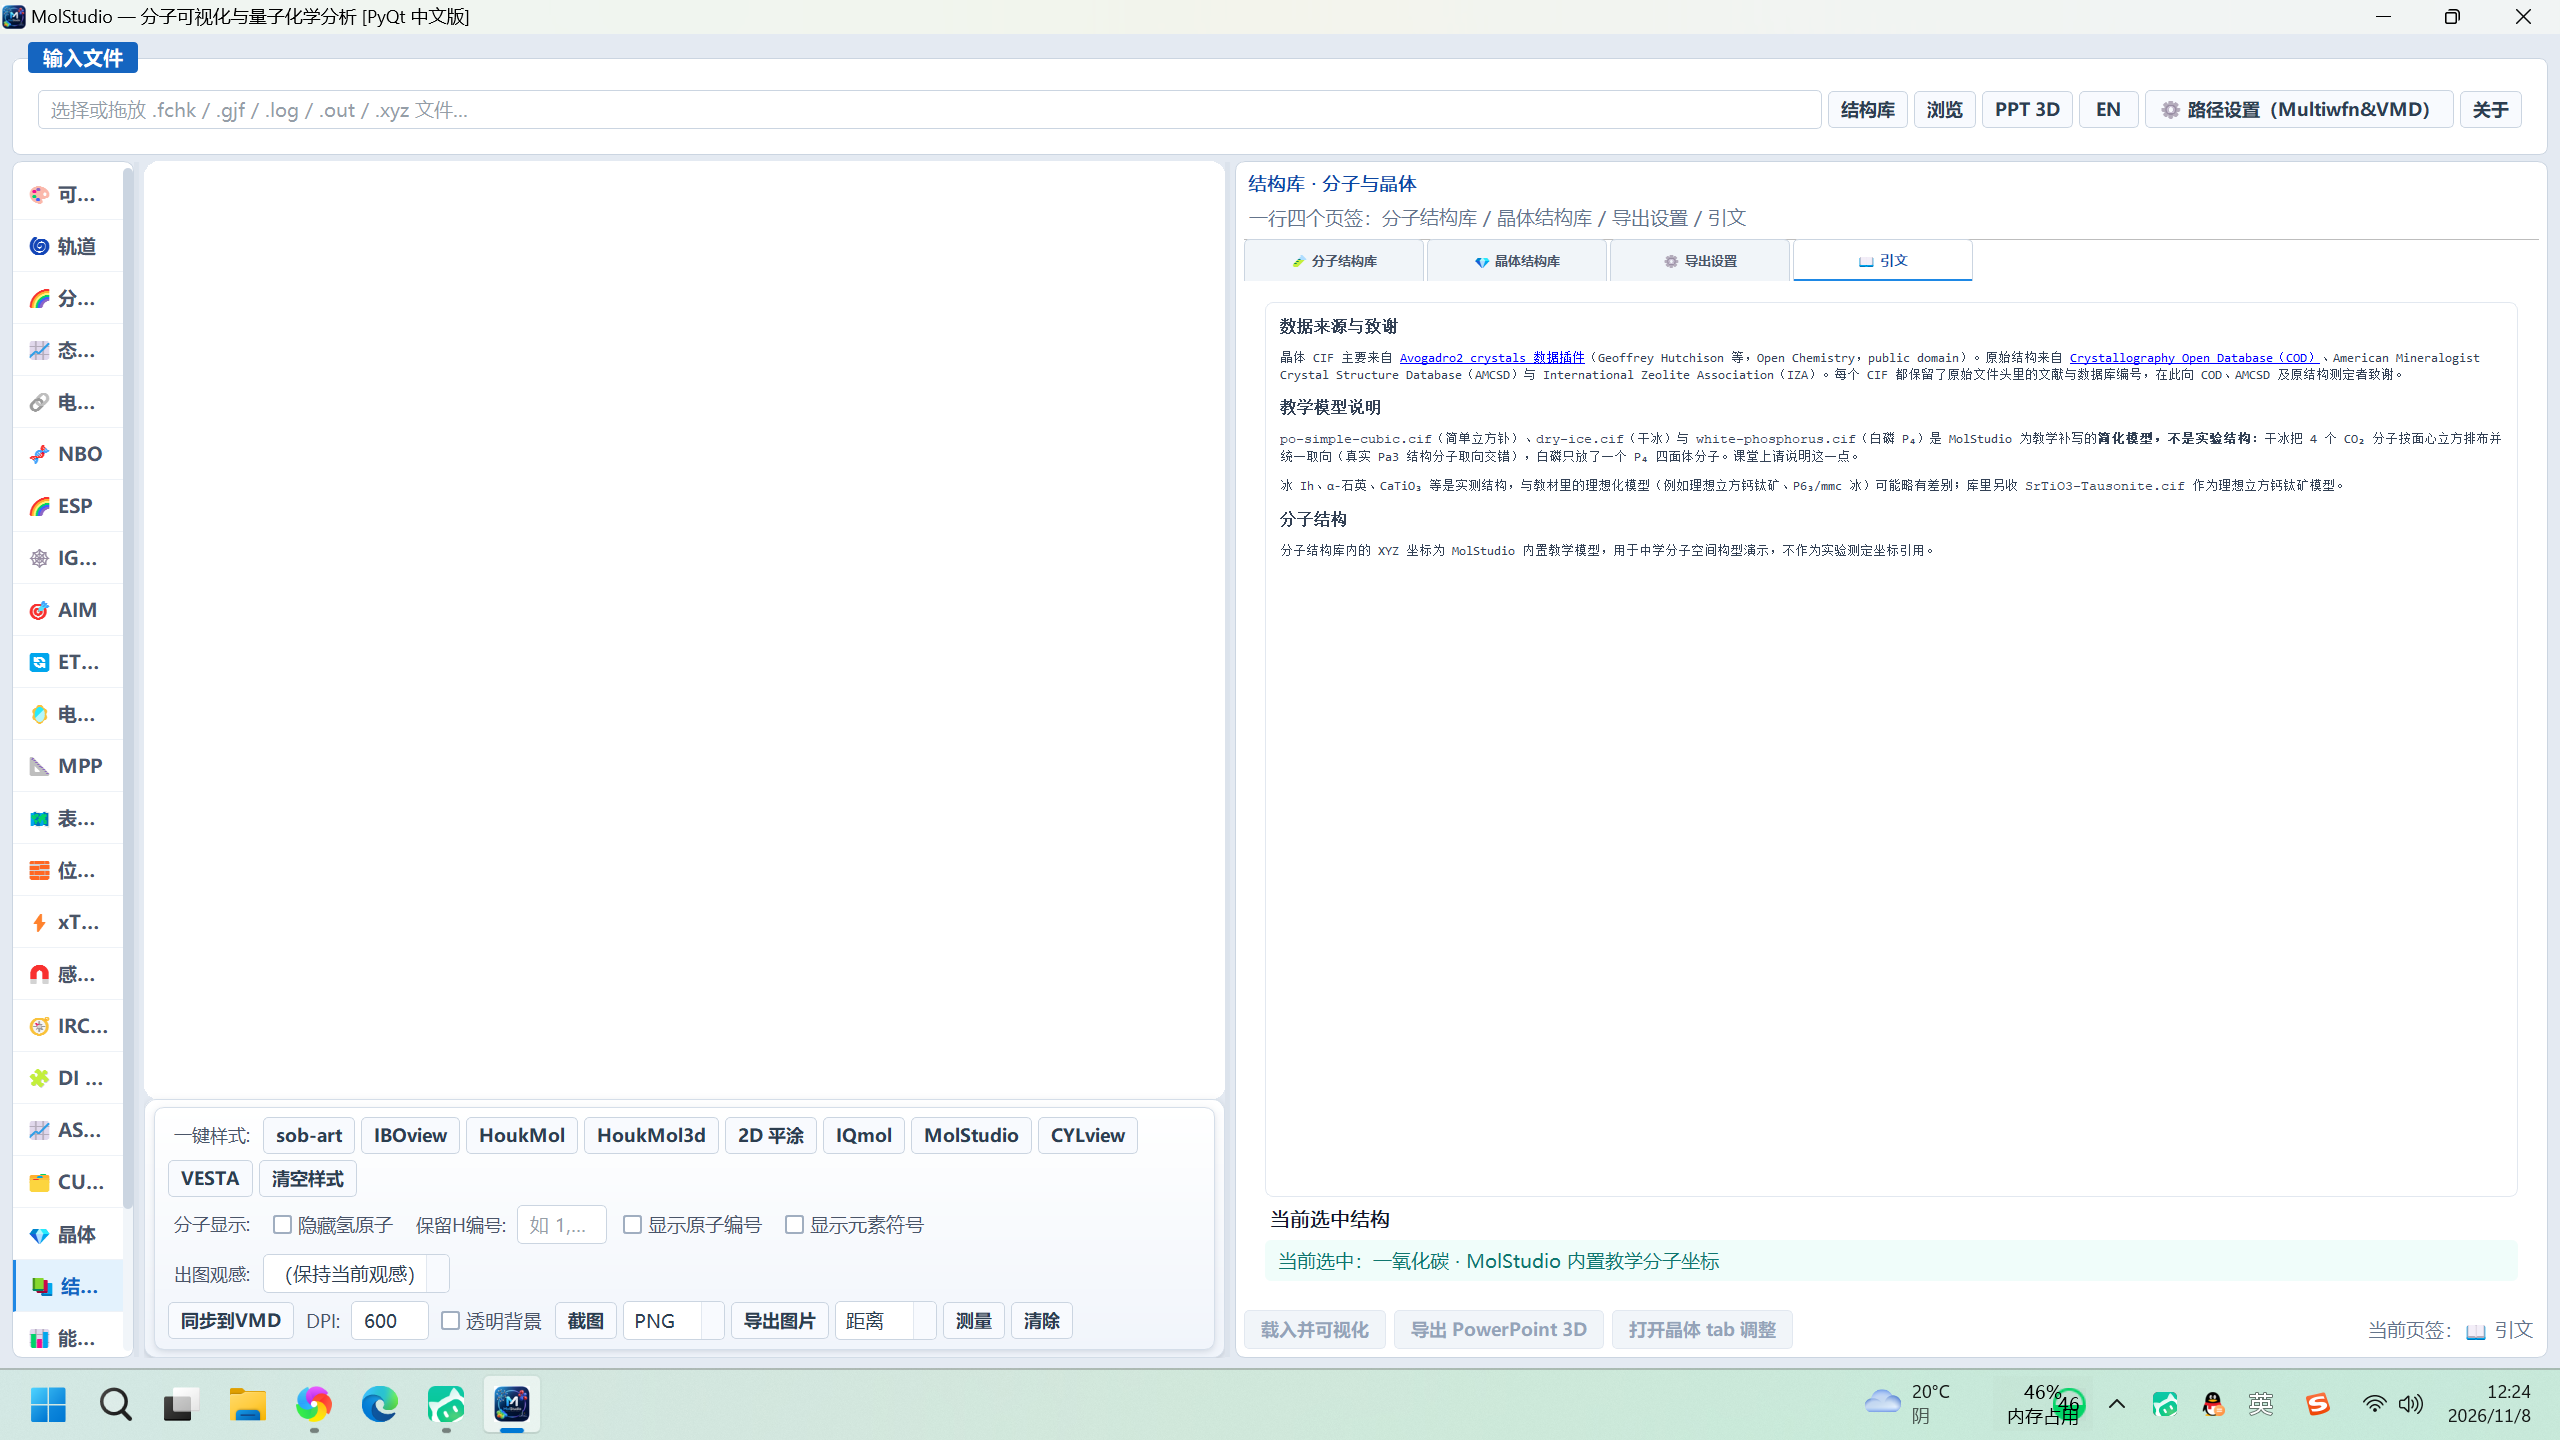
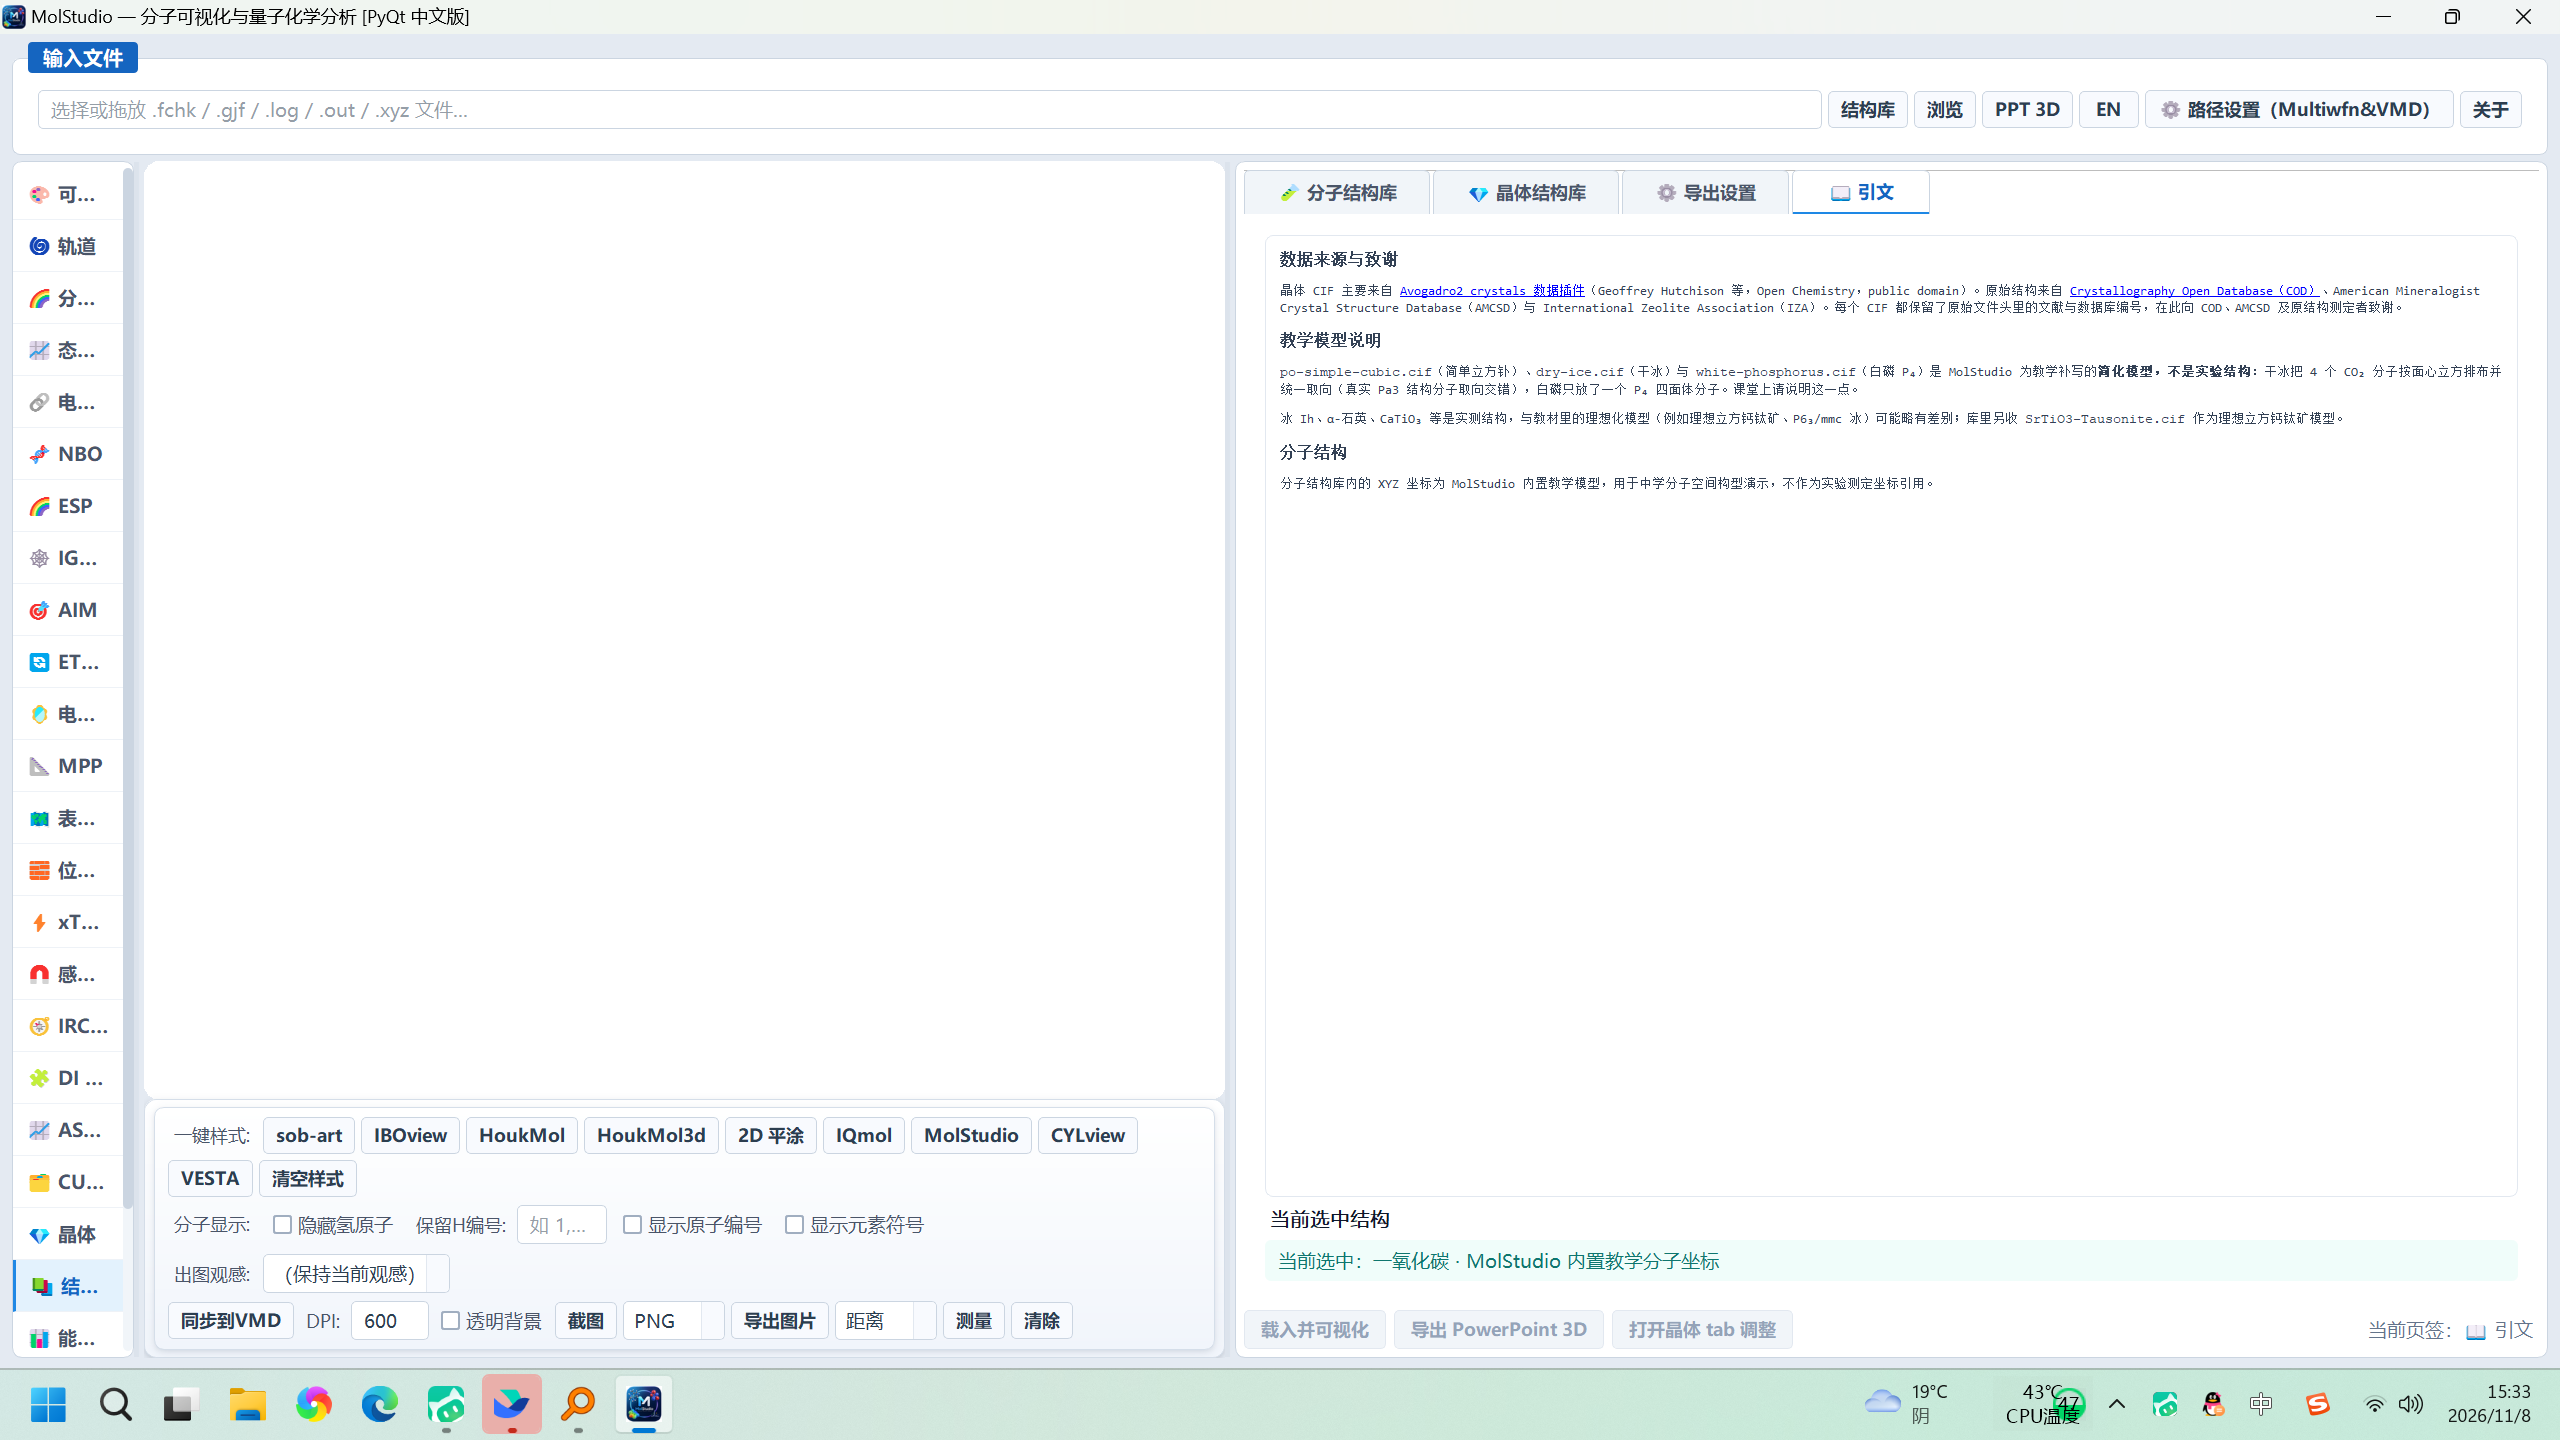
fix(library): drop page header, inherit global tab styling
- Remove the 'Structure library / four tabs' title and subtitle lines;
  the tab bar now sits at the top of the page.
- Drop the widget-level QTabBar stylesheet (min-width:150px,
  padding:7px 14px, font-size:13px). The 13px font did not scale with
  DPI and looked smaller than the 9pt bold tabs used by the global
  settings/citation tabs. Inheriting theme.LIGHT_QSS makes all four
  tabs the same height, padding and font as every other feature page.
- Lock both behaviours in the four-tab regression test.
- Refresh packaged-exe acceptance screenshots and add a before/after
  tab-size comparison.

Changed region(s): [[0.5, 0.125, 0.9688, 0.3438], [0.1875, 0.9375, 0.2812, 1.0], [0.7812, 0.9688, 0.8125, 1.0]]

diff --git a/molstudio/panels/library_panel.py b/molstudio/panels/library_panel.py
@@ -34,8 +34,6 @@ from molstudio.ui.ppt3d_options_widget import Ppt3dOptionsWidget
 
 _TEXT = {
     "zh": {
-        "title": "结构库 · 分子与晶体",
-        "subtitle": "一行四个页签：分子结构库 / 晶体结构库 / 导出设置 / 引文",
         "tabs": ("🧪 分子结构库", "💎 晶体结构库",
                  "⚙ 导出设置", "📖 引文"),
         "settings_hint": "四个页签共用这一组参数。切到「晶体结构库」并选中晶体后，"
@@ -88,8 +86,6 @@ _TEXT = {
         "empty": "没有找到匹配的结构",
     },
     "en": {
-        "title": "Structure library · molecules & crystals",
-        "subtitle": "Four sibling tabs: Molecules / Crystals / Export settings / Citation",
         "tabs": ("🧪 Molecules", "💎 Crystals",
                  "⚙ Export settings", "📖 Citation"),
         "settings_hint": "All four tabs share these options. The unit-cell frame, "
@@ -397,23 +393,17 @@ class LibraryPanel(QWidget):
         root = QVBoxLayout(self)
         root.setContentsMargins(8, 8, 8, 8)
         root.setSpacing(8)
-        self.lbl_title = QLabel()
-        self.lbl_title.setStyleSheet(
-            "font-size:18px;font-weight:700;color:#0D47A1;")
-        root.addWidget(self.lbl_title)
-        self.lbl_subtitle = QLabel()
-        self.lbl_subtitle.setStyleSheet("color:#64748B;")
-        root.addWidget(self.lbl_subtitle)
+        # 不再放标题 / 副标题两行说明文字：页签自己已经说明了一切。
 
         # ── the single tab bar: four siblings, forced onto ONE row ──
+        # 不设 widget 级 QSS，直接继承 theme.LIGHT_QSS 的 QTabBar::tab
+        # （9pt 加粗 / padding 8px 28px / min-width 80px），这样四个页签的
+        # 字高、内边距、整体高度与「设置 / 引文」等其他功能页的页签一致。
+        # 之前写死 font-size:13px 在高 DPI 下比 9pt 明显偏小。
         self.sub_tabs = QTabWidget()
         self.sub_tabs.setDocumentMode(True)
         self.sub_tabs.setUsesScrollButtons(True)
         self.sub_tabs.tabBar().setElideMode(Qt.ElideNone)
-        self.sub_tabs.setStyleSheet(
-            "QTabBar::tab{min-width:150px;padding:7px 14px;"
-            "font-size:13px;}"
-            "QTabBar::tab:selected{font-weight:700;color:#0D47A1;}")
         root.addWidget(self.sub_tabs, 1)
 
         # ── tab 0: molecules ──
@@ -511,8 +501,6 @@ class LibraryPanel(QWidget):
 
     def set_language(self, lang):
         self.lang = "zh" if str(lang).lower().startswith("zh") else "en"
-        self.lbl_title.setText(self._t("title"))
-        self.lbl_subtitle.setText(self._t("subtitle"))
         for i, label in enumerate(self._t("tabs")):
             self.sub_tabs.setTabText(i, label)
         self.lbl_settings_hint.setText(self._t("settings_hint"))

diff --git a/tests/test_ppt3d_glb_cellbox.py b/tests/test_ppt3d_glb_cellbox.py
@@ -137,6 +137,11 @@ def test_library_page_has_four_tabs_on_one_row():
     assert tabs.tabBar().count() == 4
     assert tabs.tabBar().usesScrollButtons()
     assert panel.findChildren(QTabWidget) == [tabs]
+    # 标题 / 副标题两行说明已移除；页签不再自带小字体 QSS，
+    # 继承全局 QTabBar::tab 才能与其他功能页的页签等高、等宽、等字号。
+    assert not hasattr(panel, "lbl_title")
+    assert not hasattr(panel, "lbl_subtitle")
+    assert panel.sub_tabs.styleSheet() == ""
     assert panel.molecule_view.list_widget.count() > 50
     assert panel.crystal_view.list_widget.count() > 35
 
